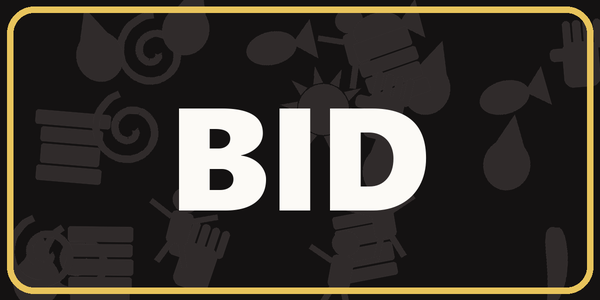
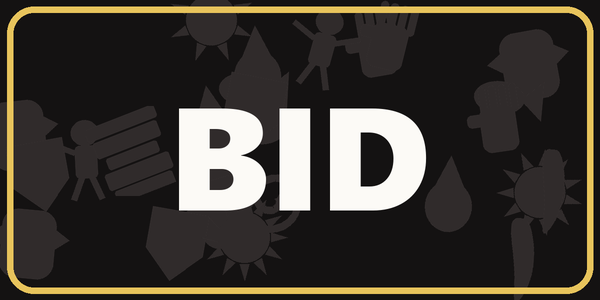
Lay the table out at runtime from the hand zones
The layout was hand-tuned against a guess at Table_Poker's size, and the
guess was wrong: scanning 28 workshop mods turned up TTS's own default
10-seat hand-zone layout, which is 3x larger than what I had assumed.

Rather than guess again, nothing has a hand-tuned position any more.
layoutTable() measures each seat off that colour's hand zone and derives
everything from it - dibber, trick mat and Pili tray per seat, the decks,
the button and the bag off the average seat radius, with object sizes
scaled to the table. Seats with no hand zone get tucked under the table.

That means the hand zone is now the single source of truth: correcting a
seat re-lays everything around it, on a table of any size.

Also:
- Visible mats under the trick and Pili zones, which were invisible, so
  players can see where to stack tricks and where Pilis land
- Shrink the oversized dibbers and round button
- Unset bid now reads "?" rather than "-", which looked like a third
  minus button between the two real ones

diff --git a/build_save.py b/build_save.py
@@ -301,7 +301,10 @@ reconstruction. Edit missions.json and rerun build_save.py to correct them."""
 def build(missions, urls, out_dir):
     objects = []
 
-    # seats: hand zone, bid dibber, trick pile zone, Pili zone
+    # Seats. Everything except the hand zone is parked here and then moved into
+    # place by layoutTable() at load, measured off the hand zones - so the hand
+    # zone is the single source of truth for where a seat is, and correcting
+    # SEATS re-lays the whole table automatically.
     for colour, fx, fz in SEATS:
         objects.append(hand_zone(colour, fx, fz))
         (sx, sz), rot_y, right = seat_frame(fx, fz)
@@ -310,15 +313,22 @@ def build(missions, urls, out_dir):
         objects.append(custom_tile(
             urls["dibber"],
             (dx + right[0] * SIDE_OFFSET, 1.3, dz + right[1] * SIDE_OFFSET),
-            rot_y, f"{colour} bid", f"PILI:DIBBER:{colour}", scale=1.5))
+            rot_y, f"{colour} bid", f"PILI:DIBBER:{colour}", scale=1.1))
 
-        objects.append(scripting_zone(
-            (dx - right[0] * SIDE_OFFSET, 2.0, dz - right[1] * SIDE_OFFSET),
-            rot_y, f"PILI:PILIS:{colour}", size=(3.2, 3.0, 3.2)))
-
+        objects.append(custom_tile(
+            urls["mat"], (sx * F_TRICKS, 1.2, sz * F_TRICKS), rot_y,
+            f"{colour} tricks", f"PILI:MAT:{colour}", scale=1.7))
         objects.append(scripting_zone(
             (sx * F_TRICKS, 2.0, sz * F_TRICKS), rot_y,
             f"PILI:TRICKS:{colour}", size=(3.8, 3.0, 3.4)))
+
+        objects.append(custom_tile(
+            urls["tray"],
+            (dx - right[0] * SIDE_OFFSET, 1.2, dz - right[1] * SIDE_OFFSET),
+            rot_y, f"{colour} pilis", f"PILI:TRAY:{colour}", scale=1.2))
+        objects.append(scripting_zone(
+            (dx - right[0] * SIDE_OFFSET, 2.0, dz - right[1] * SIDE_OFFSET),
+            rot_y, f"PILI:PILIS:{colour}", size=(3.2, 3.0, 3.2)))
 
     objects.append(custom_tile(urls["button"], POS_BUTTON, 0.0,
                                "Next Round", "PILI:BUTTON", scale=2.0))
@@ -455,7 +465,8 @@ def main():
         names = {"play_face": "play_faces.png", "mission_face": "mission_faces.png",
                  "play_back": "play_back.png", "mission_back": "mission_back.png",
                  "pili": "pili_token.png", "dibber": "dibber.png",
-                 "button": "round_button.png", "dealer": "dealer.png"}
+                 "button": "round_button.png", "dealer": "dealer.png",
+                 "mat": "mat_tricks.png", "tray": "mat_pilis.png"}
         files = {k: os.path.join(art.ASSETS, v) for k, v in names.items()}
     else:
         print("rendering art ...")

diff --git a/art.py b/art.py
@@ -502,6 +502,17 @@ def generate(missions, progress=True):
     dealer_token().save(p, "PNG", optimize=True)
     out["dealer"] = p
 
+    # mats are backdrops, so they stay quiet: dark, thin border, small type
+    p = os.path.join(ASSETS, "mat_tricks.png")
+    plaque(700, 500, "TRICKS WON", ground=(24, 23, 22), accent=(74, 70, 66),
+           title_frac=0.11).save(p, "PNG", optimize=True)
+    out["mat"] = p
+
+    p = os.path.join(ASSETS, "mat_pilis.png")
+    plaque(500, 500, "PILIS", ground=(30, 20, 19), accent=(96, 44, 40),
+           title_frac=0.13).save(p, "PNG", optimize=True)
+    out["tray"] = p
+
     say("backs and token")
     p = os.path.join(ASSETS, "play_back.png")
     back(CARD_W, CARD_H, "PILI PILI", (232, 196, 92), "1 - 55").save(p, "PNG", optimize=True)

diff --git a/validate.py b/validate.py
@@ -136,7 +136,8 @@ for o in save["ObjectStates"]:
         notes[n] += 1
 
 for seat in seats:
-    for pre in ("PILI:DIBBER:", "PILI:TRICKS:", "PILI:PILIS:"):
+    for pre in ("PILI:DIBBER:", "PILI:TRICKS:", "PILI:PILIS:",
+                "PILI:MAT:", "PILI:TRAY:"):
         check(f"  {pre}{seat}", notes.get(pre + seat) == 1)
 for single in ("PILI:BUTTON", "PILI:DEALER", "PILI:BAG"):
     check(f"  exactly one {single}", notes.get(single) == 1)
